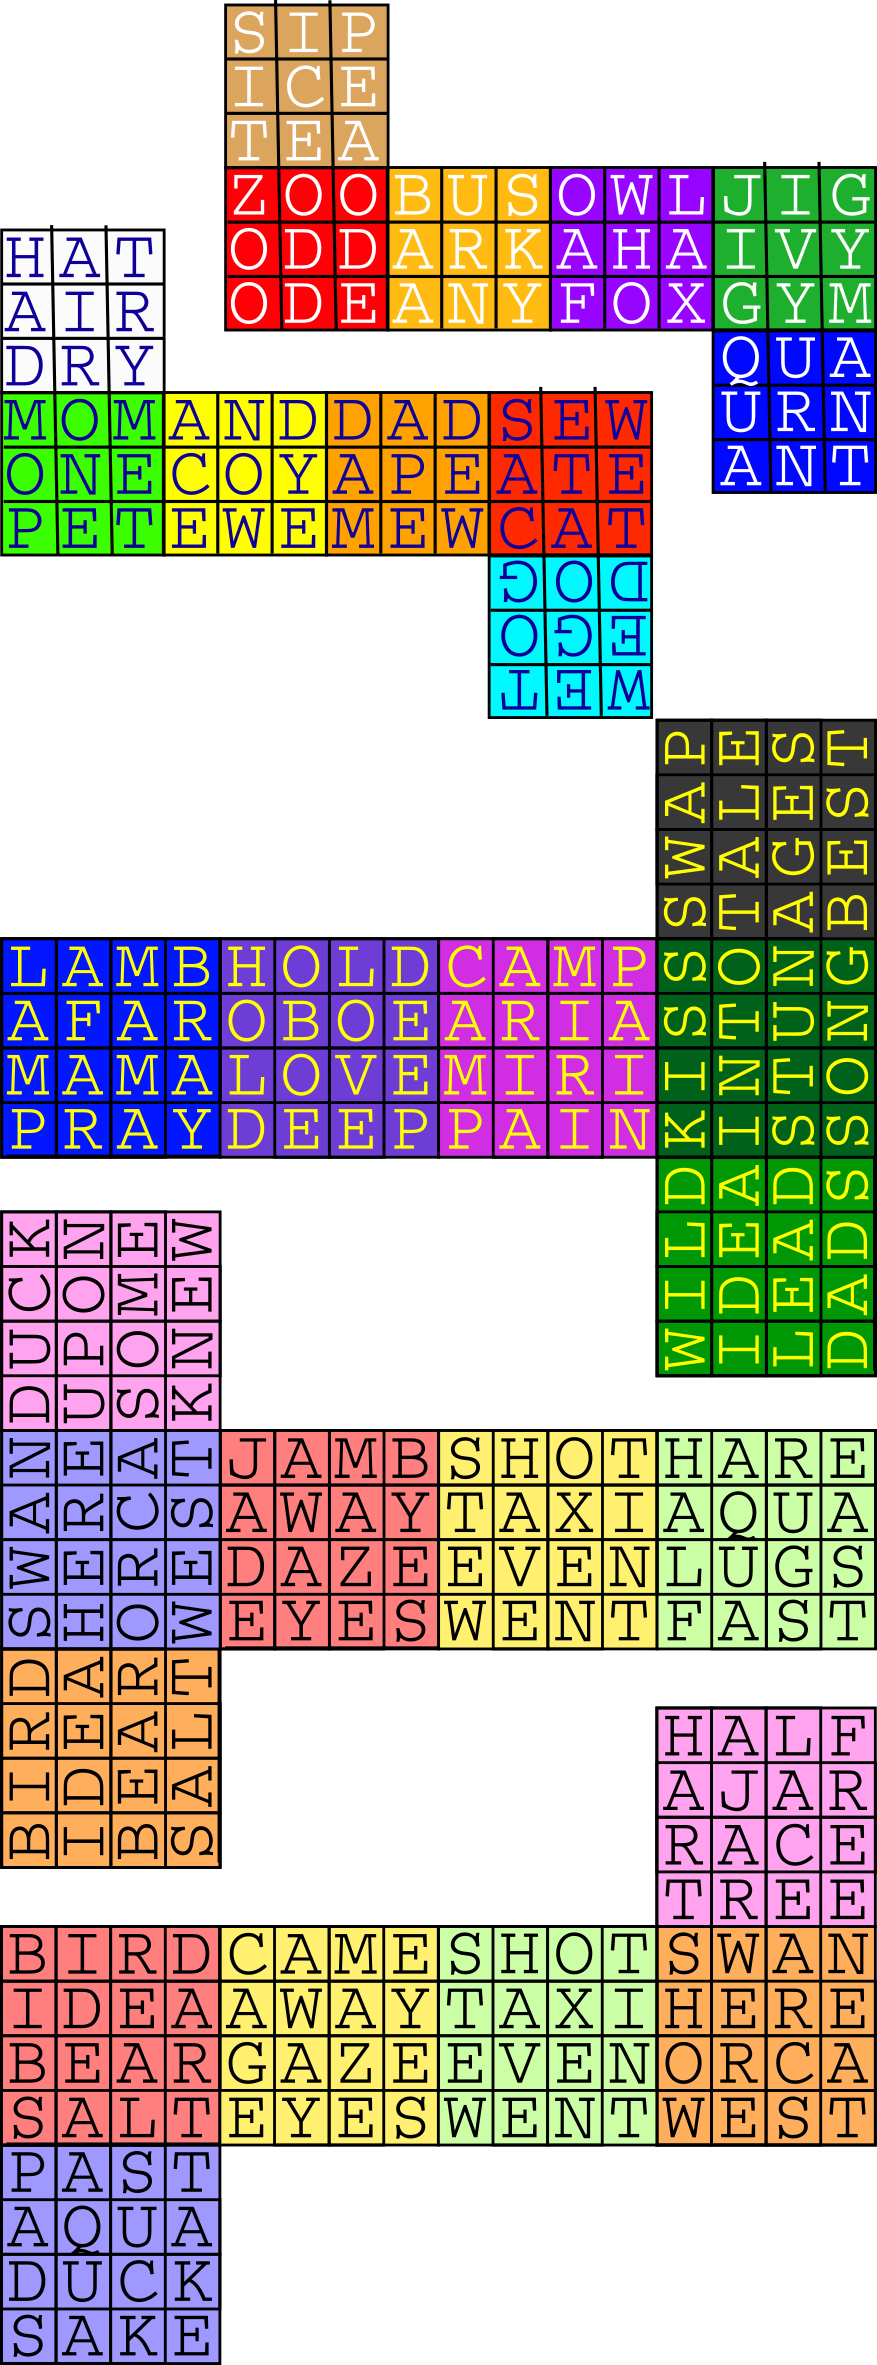
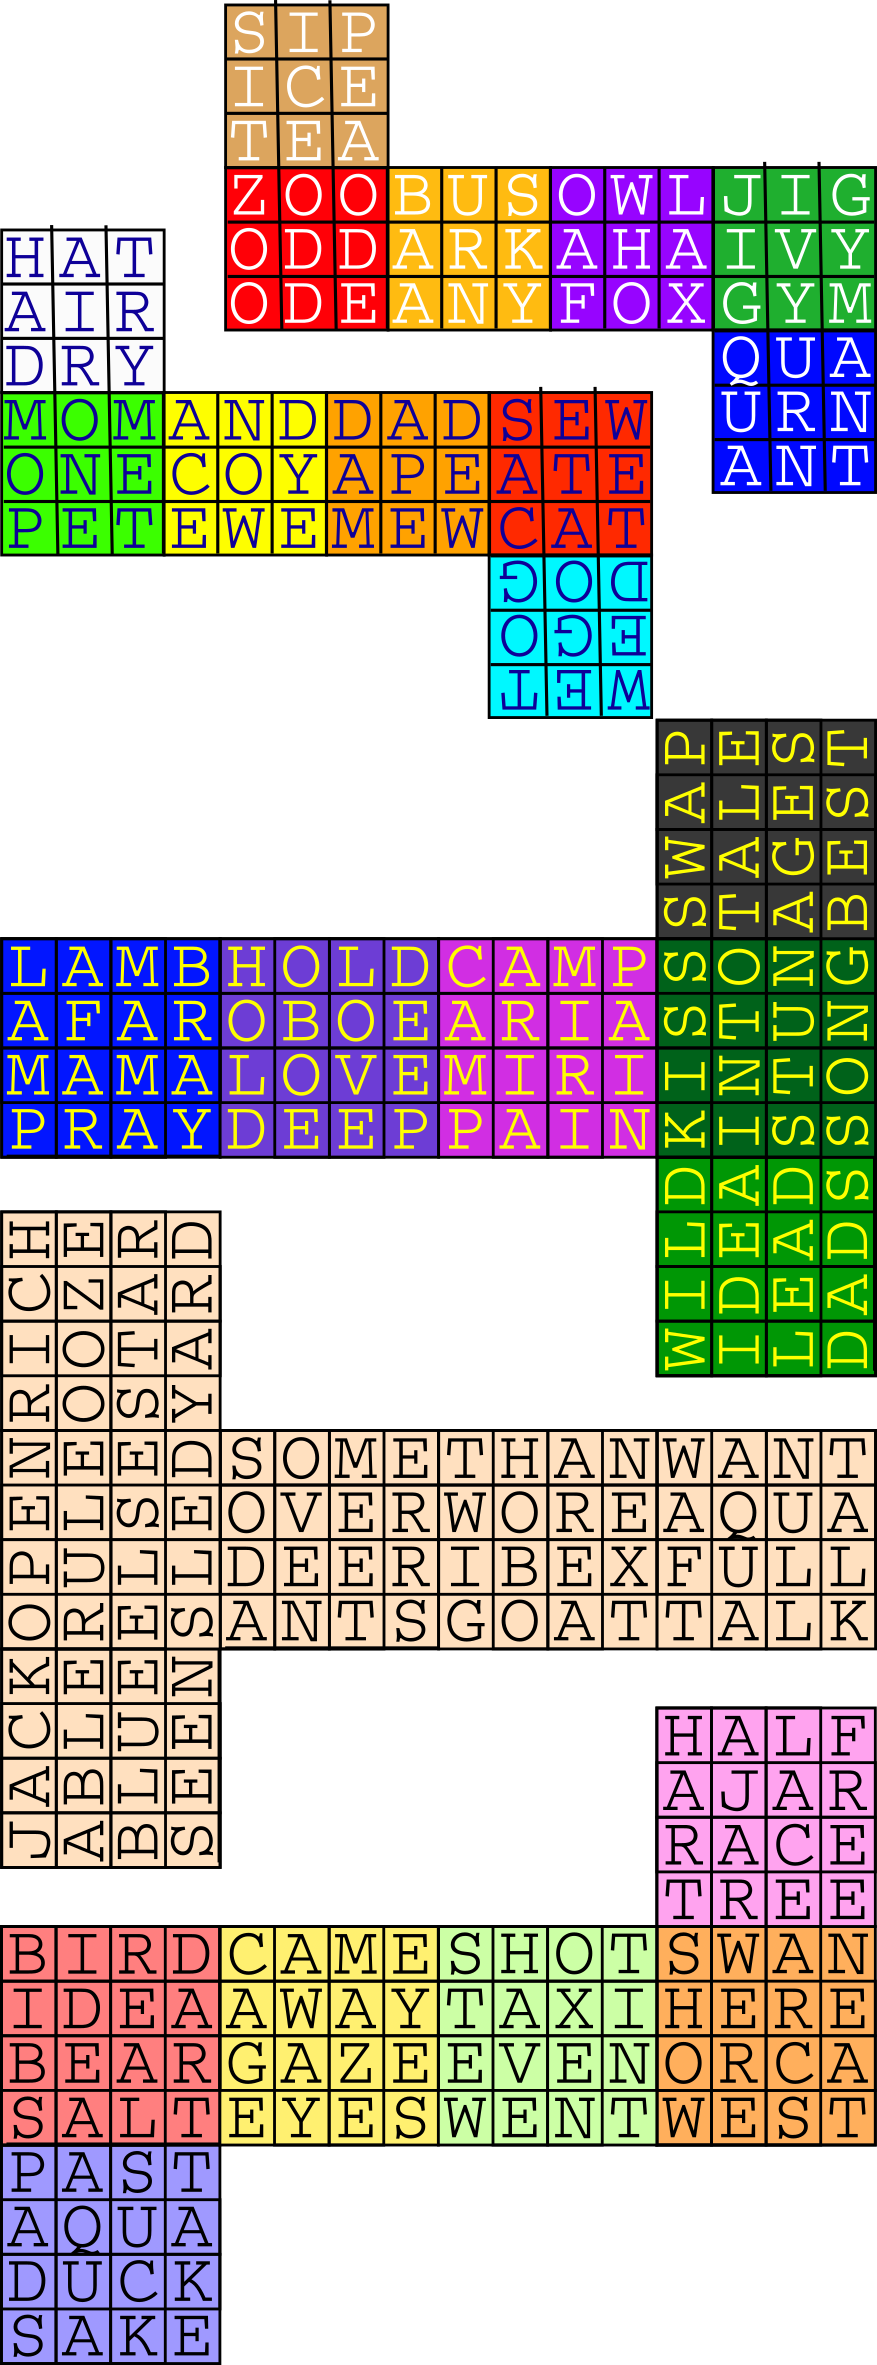
start on third 4-letter poem

Changed region(s): [[0.0, 0.4939, 1.0, 0.8025]]

diff --git a/four.py b/four.py
@@ -161,6 +161,15 @@ nicest = [
 ]
 pretty_tuples(nicest)
 
+next_nicest = [
+    ('bird','idea','bear','salt'),
+    ('came','away','gaze','eyes'),
+    ('half','ajar','race','tree'),
+    ('past','aqua','duck','sake'),
+    ('shot','taxi','even','went'),
+    ('swan','here','orca','west'),
+]
+
 letters_left = set('abcdefghijklmnopqrstuvwxyz')
 
 for t in nicest:
@@ -199,7 +208,7 @@ for l in letters_left:
 best = ['love','miri','mama','hugs','kiss','with','hold','doll','girl','boys',
         'quip','quiz','whiz','zero','zoom','taxi','cozy',]
 
-already_found = nicest
+already_found = nicest+next_nicest
 
 unused_best = list(filter(lambda w: not any(map(lambda t: has_word(t, w), already_found)),
                           best+animals))
